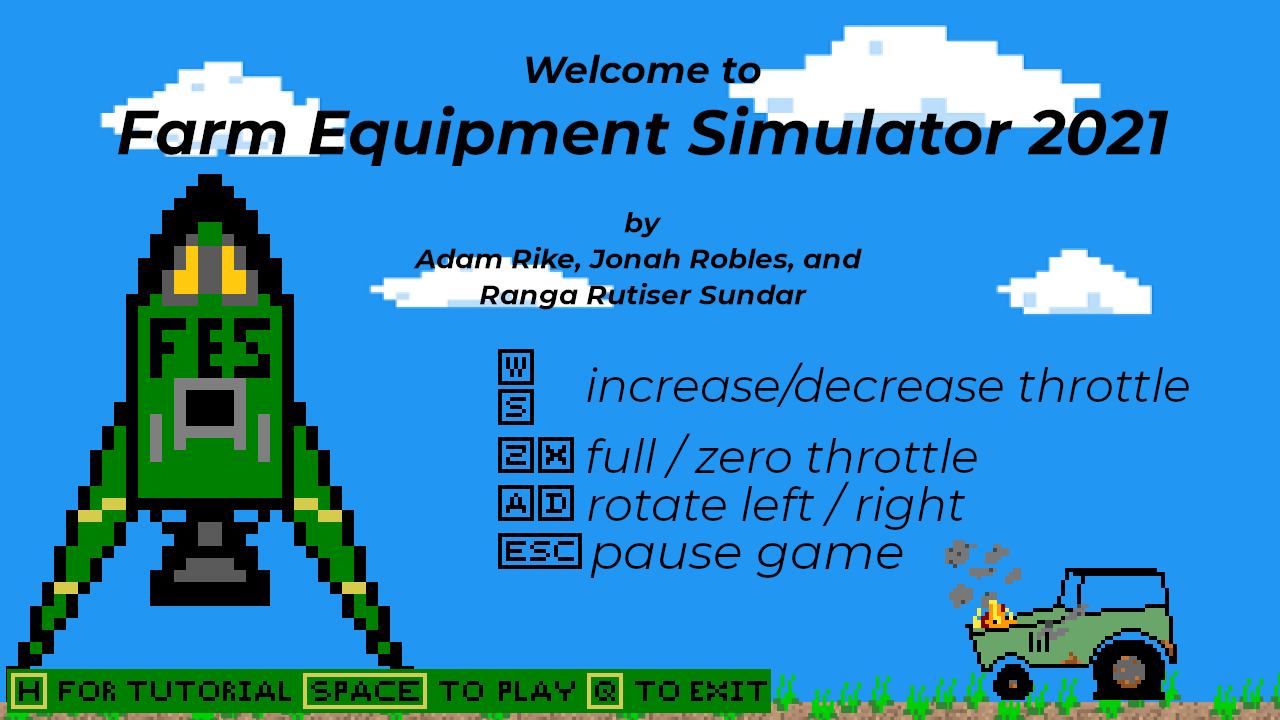
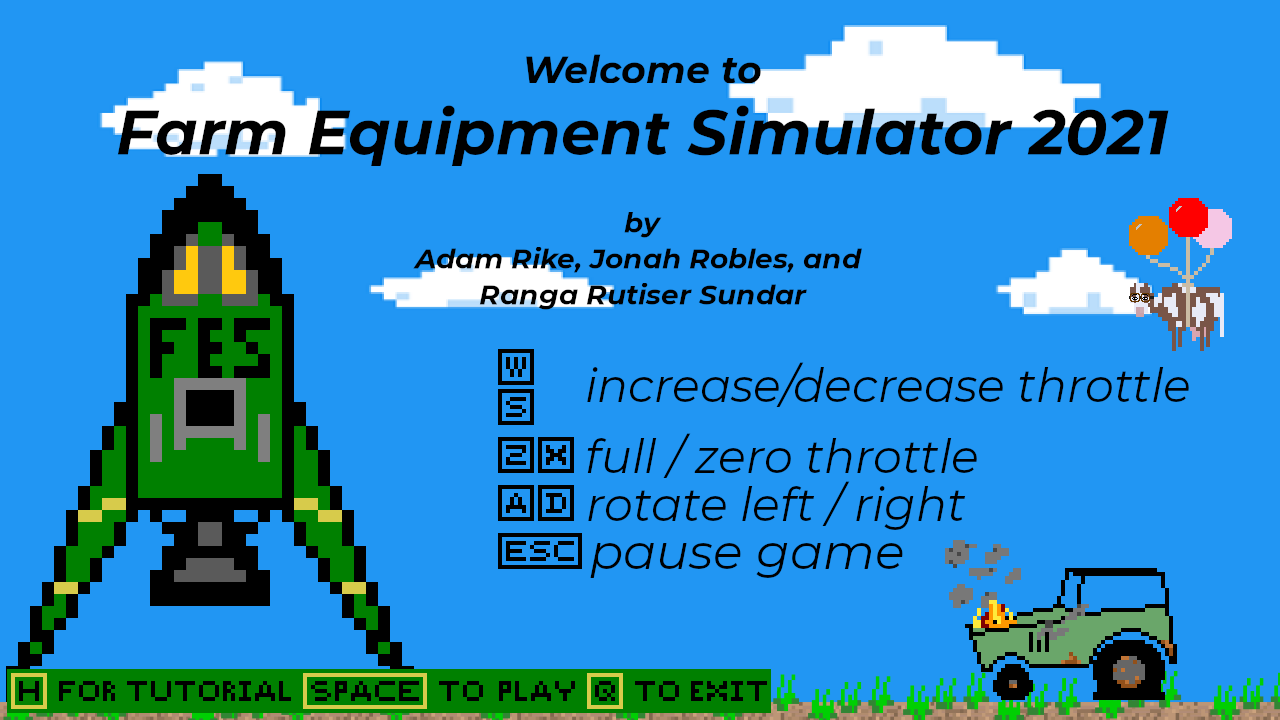
Started implementing an exhaust particle system
Created an exhaust manager object which will handle the multiple exhaust particle objects.

Changed region(s): [[0.875, 0.275, 0.9688, 0.4889]]

diff --git a/ExhaustMgr.m b/ExhaustMgr.m
@@ -1,0 +1,111 @@
+%Manages the particles representing the rocket's exhaust as they interact
+%with the ground.
+classdef ExhaustMgr 
+    properties
+        numParticles %Maximum number of particles
+        particleList %Array of particles in use
+        rocket %rocket to reference
+        maxParticleAge %maximum particle age in frames
+        despawnedAge %Age to set a particle to when it is despawned
+        dragConst %drag constant, multiplied by velocity each frame.
+    end
+
+    methods
+        %Constructor
+        %Creates an ExhaustMgr object and initializes its particle list
+        function obj = ExhaustMgr(rocket)
+            obj.numParticles = Const.numParticles;
+            obj.particleList = zeros(obj.numParticles);
+            obj.rocket = rocket;
+            obj.maxParticleAge = Const.maxParticleAge;
+            obj.despawnedAge = Const.particleDespawnedAge;
+            obj.dragConst = Const.particleDragConst;
+
+            %Initialize the particle list
+            for i = obj.particleList
+                %part1, part2, etc.
+                particleName = sprintf("part%.0f", i);
+                ithParticle = SpriteKit.Sprite(particleName);
+
+                initState(ithParticle, 'on', Const.exhaustImg, true);
+                initState(ithParticle, 'off', Const.noneImg, true);
+
+                addprop(ithParticle, 'velocity');
+                addprop(ithParticle, 'age');
+
+                ithParticle.Location = Const.defaultParticlePos;
+                obj.particleList(i) = ithParticle;
+            end
+
+        end
+
+        %Disables all managed particles.
+        function killAllParticles(obj)
+            %Iterate through the list of particles and disable all.
+            for i = obj.particleList
+                despawnParticle(obj.particleList(i));
+            end
+        end
+
+        %Spawns a particle if possible.
+        %position is the position to be spawned at, as [x,y]
+        %velocity is [x,y] velocity to be spawned with.
+        function spawnParticle(obj, position, velocity)
+            %Find the index of the oldest particle.
+            [~, targetIndex] = max(obj.particleList.age); %will this work? idk.
+
+            %Select the target particle
+            targetParticle = obj.particleList(targetIndex);
+
+            targetParticle.State = 'on'; %Enable the target particle    
+            targetParticle.age = 0;
+            targetParticle.Location = position;
+            targetParticle.velocity = velocity;
+        end
+
+        %Despawns the given particle. Note that particle should be a
+        %particle Sprite object, not a particle index.
+        function despawnParticle(obj, particle)
+            particle.State = 'off';
+            %Setting the age to a very high number allows this to be one of
+            %the first particles when sorted by age.
+            particle.age = obj.despawnedAge;
+            particle.Location = [0,0];
+        end
+        
+        %Scrolls all particles assigned to the manager and updates them.
+        function scrollParticles(obj, x,y)
+            particleScrollDist = [x,y];
+            %Move every particle in this manager's list by the distance
+            %specified
+            for i = obj.particleList
+                currentPart = obj.particleList(i);
+                %Add the offset to each particle's location
+                currentPart.Location = currentPart.Location + particleScrollDist;
+
+                %If the particle is scrolled off screen, disable it.
+                if (currentPart.Location(1) <= 0 ||... %left
+                    currentPart.Location(1) >= Const.windowSize(1) ||... %right
+                    currentPart.Location(2) <= 0 ||... %bottom
+                    currentPart.Location(2) >= Const.winddowSize(2)) %top
+
+                    despawnParticle(obj, currentPart); %disable particle
+                end
+
+                %Increment the age
+                currentPart.age = currentPart.age + 1;
+                %If the current particle's age is greater than the maximum,
+                %disable it.
+                if currentPart.age >= obj.maxParticleAge
+                    despawnParticle(obj, currentPart); %disable particle
+                end
+            end
+        end
+
+        %To be called every frame. Updates all particles.
+        function tickParticles(obj)
+
+
+        end
+    end
+end

diff --git a/Const.m b/Const.m
@@ -35,6 +35,8 @@ classdef Const
         rocketThrust2Img = 'Assets/rocket3_mid.png';
         rocketThrust3Img = 'Assets/rocket3_high.png';
         
+        exhaustImg = 'Assets/exhaust.png'; %exhaust particle
+
         cowImg = 'Assets/cow.png'; %Path to the cow image
         cowScale = 1; %Do not change scale values.
         noneImg = 'Assets/noneImg.png'; %1x1 transparent png.
@@ -55,6 +57,7 @@ classdef Const
         zeroAlt = 80; %pixels
         
         backgroundVerticalScroll = 0; %Whether or not to scroll the backround up and down
+
         %% FUEL GAUGE CONSTANTS
         
         fuelGaugeWidth = Const.windowSize(1) * 50/1280
@@ -144,8 +147,27 @@ classdef Const
         cowFlyChance = 0.2; %chance for the cow to be flying. 0.2 = 20%
 
         cowFlyRandAlts = [2, 10]; %random altitudes for flying cows to spawn!
+        cowFlyPropMass = 45000; %mass of propellant for flying cows, kg
 
         %cowSpawnY = 0; %spawn y in pixels for old spawn behavior. no longer used
+        
+        %% PARTICLE CONSTANTS
+
+        numParticles = 10;
+
+        defaultParticlePos = [0,0];
+
+        %Distance to offset the particle spawns from the rocket's location
+        particleOffsetDist = 20; %pixels
+        %Starting velocity when at max throttle
+        particleMaxVelocity = 10; %meters per second
+        particleVelocityMultiplier = 1; %Multiplies the particle's velocity
+
+        particleMaxAge = 30; %frames
+        %When a particle is despawned, its age is set to a very high
+        %number. This way, when looking for a slot to spawn a new particle
+        %in, this particle will be selected.
+        particleDespawnedAge = 9999; %Indicates a particle as despawned.
         
         %% SCORING CONSTANTS
         altitudeScoreCutoff = 5; %If below this altitude, score is counted
